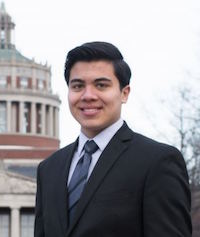
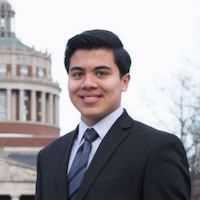
Designer: standardized image sizes, initial basic custom stylesheet

diff --git a/css/styles.css b/css/styles.css
@@ -1,115 +1,82 @@
 body	{
-			margin: 0px;
-			padding: 0px;
-			background-color: #e6f3ff;
-			font-size: 16px;
+    margin: 0px;
+    padding: 0px;
+    background-color: whitesmoke;
+    font-family: Tahoma, Geneva, sans-serif;
+    font-size: 16px;
 }
 
 .container {
-				margin: 0 auto;
-				padding: 0px;
-				width: 100%;
-				max-width: 960px;
-				height: 100%;
-				font-family: Georgia, serif;
-				background-color: #F0F8FF;
-
+    margin: 0 auto;
+    padding: 0px;
+    width: 100%;
+    max-width: 900px;
+    height: 100%;
+    background-color: white;
 }
 
 .heading {
-			color: white;
-			background-color: rgba(10,10,100,1);
-			font-size: 28px;
-			padding: 10px;
-			margin: 0px;
-			text-transform: uppercase;
-			text-align: center;
-			display: flex;
-			align-items: center;
-			justify-content: center;
-			height: 200px;
+    margin: 0px;
+    padding: 20px;
+    height: 200px;
+    background-color: ghostwhite;
+    font-size: 24px;
+    text-transform: uppercase;
+    text-align: center;
+    display: flex;
+    align-items: center;
+    justify-content: center;
 }
 
-h2 {
-			text-align: center;
-			font-size: 20px;
-			color: #004d4d;
-			background-color: #c2f0f0;
-			border-bottom: 1px solid black;
-			padding: 2px;
+.content-row {
+    margin: 0;
+    padding: 0;
 }
 
-p {
-	text-align: justify;
-	padding: 10px;
+.content-box {
+    margin: 0;
+    padding: 10px;
+    height: 100%;
+}
+
+figure {
+    margin: 0;
+    padding: 10px;
+}
+
+figure img {
+    margin: 0;
+    padding: 0;
+    width: 100%;
+    height: 100%;
 }
 
 .well {
-		width: 100%;
-		text-align: center;
+    margin: 0;
+    padding: 10px;
 }
 
-.well a {
-			text-decoration: none;
-			color: #004d4d;
-			width: 100%;
+.well h2 {
+    margin: 0;
+    padding: 0;
+    width: 100%;
 }
 
-.well a:hover {
-				color: rgba(10,10,100,1);
-}
-
-.well h2:hover, .well h2:hover a {
-					background-color: rgba(10,10,100,1);
-					color: white;
-}
-
-footer {
-			width: 100%;
-			background-color: rgba(10,10,100,1);
-			color: white;
-			text-decoration: none;
-			border-radius: 10px;
-			margin-top: 10px;
-}
-
-footer ul {
-				list-style-type: none;
-				margin: 0px;
-				padding: 0px;
-				padding-top: 10px;
-				padding-bottom: 10px;
-				width: 100%;
-}
-
-footer li {
-				display: table-cell;
-				width: 5%;
-				margin: 0px;
-				padding: 0px;
-				text-align: center;
+.well p {
+    margin: 0;
+    padding: 0px;
+    width: 100%;
 }
 
 @media (max-width: 1080px) {
-	.container {
-					width: 80%;
-					max-width: 720px;
-	}
+    .container {
+        width: 80%;
+        max-width: 720px;
+    }
 }
 
 @media (max-width: 767px) {
-	.heading {
-				min-height: 150px;
-				font-size: 18px;
-				width: 100%;
-				padding: 0px;
-	}
-
-	.menu li{
-				display: block;
-	}
-
-	.container {
-				width: 90%;
-	}
+    .container {
+        width: 90%;
+    }
 }

diff --git a/css/navigation.css b/css/navigation.css
@@ -1,50 +1,4 @@
-.menu {
-	margin-top: 5px;
-	margin-bottom: 5px;
-	text-align: center;
-	width: 100%;
-}
-
-.menu ul {
-	border-collapse: collapse;
-	margin-top: 0px;
-	margin-bottom: 0px;
-	padding-left: 0px;
-	padding-right: 0px;
-	list-style-type: none;
-}
-
-.menu li {
-	display: table-cell;
-	border: 1px solid black;
-	width: 5%;
-	margin: 0px;
-	padding-top: 5px;
-	padding-bottom: 5px;
-	padding-left: 0px;
-	padding-right: 0px;
-}
-
-.menu a {
-	display: block;
-	text-decoration: none;
-	color: rgba(10,10,100,1);
-	width: 100%;
-	height: 100%;
-	padding: 0px;
-}
-
-.menu a:hover, .menu li:hover, li.active, li.active a {
-	background-color: #008080;
-	color: white;
-}
 
 @media (max-width: 767px) {
-	.menu li{
-				display: block;
-				width: 100%;
-				border: none;
-				border-bottom: 1px solid black;
-				margin: 0px;	
-	}
+
 }
